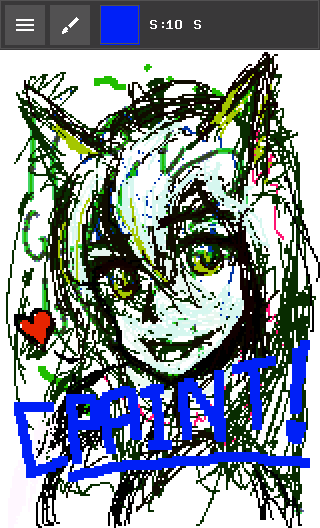
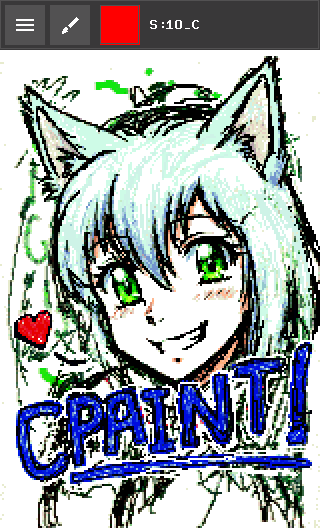
update cpaint, add demo and docs

diff --git a/gint_old.py b/gint_old.py
@@ -1,9 +1,10 @@
+import os
 import time
 import pygame
 from pygame.locals import *
 import sys
 import struct
-from typing import List, Optional, Tuple, Set
+from typing import List, Optional, Tuple
 
 
 # Display dimensions
@@ -55,7 +56,7 @@ vram = pygame.Surface((DWIDTH, DHEIGHT))
 clock = pygame.time.Clock()
 FPS = 100  # Adjust to control game speed
 
-#  NEW: Window Clipping State
+# --- NEW: Window Clipping State ---
 _dwindow = (0, 0, DWIDTH, DHEIGHT)
 
 def _to_rgb(color: int) -> tuple:
@@ -114,6 +115,7 @@ def dupdate():
     else:
         scaled = pygame.transform.scale(vram, (DWIDTH * SCALE, DHEIGHT * SCALE))
         screen.blit(scaled, (0, 0))
+
     pygame.display.flip()
     clock.tick(FPS)
 
@@ -189,7 +191,7 @@ def dpoly(vertices: List[int], fill: int, border: int):
 
 
 
-# ---------------------------------------------------------------------------
+# ------------------------------------------------------------------------------
 
 # Fonts
         
@@ -225,7 +227,7 @@ def dfont(font: GintFont):
     global _current_font
     _current_font = font
 
-# ---------------------------------------------------------------------------
+# ------------------------------------------------------------------------------
 
 # Load bitmap font
 _uf8x9_font = pygame.image.load("_data/font8x9.png").convert()
@@ -605,9 +607,6 @@ _key_mapping = {
     K_RALT: KEY_KBD,
     K_LALT: KEY_KBD
 }
-#  Gint Keyboard State Simulation ---
-_state_queue: Set[int] = set() # User-visible key state, updated by pollevent
-_state_flips: Set[int] = set() # Keys that changed state since last cleareventflips
 
 # State tracking
 _key_states = {}
@@ -624,8 +623,6 @@ class _Event:
 class KeyEvent(_Event):
     def __init__(self, event_type=KEYEV_NONE, key=None, pos=(0, 0)):
         super().__init__(event_type, key)
-
-        mods = pygame.key.get_mods()
 
         self.time = int(time.monotonic() * 1000)
         self.mod = False
@@ -706,7 +703,6 @@ def pollevent():
             # Capture Print Screen key to save VRAM
             if event.key == pygame.K_PRINTSCREEN:  # <-- Add this block
                 pygame.image.save(vram, "screenshot.png")
-                print("screenshot !!")
                 continue  # Skip further processing for this event
                 
             if event.key in _key_mapping:
@@ -725,21 +721,6 @@ def pollevent():
                 return KeyEvent(KEYEV_UP, mapped)
     
     return KeyEvent(KEYEV_NONE, None)
-
-def keypressed(key: int) -> bool:
-    """
-    Checks if a key is currently down AND its state has changed
-    since the last call to cleareventflips().
-    """
-    return (key in _state_queue) and (key in _state_flips)
-
-def keyreleased(key: int) -> bool:
-    """
-    Checks if a key is currently up AND its state has changed
-    since the last call to cleareventflips().
-    """
-    return (key not in _state_queue) and (key in _state_flips)
-
 
 def getkey() -> KeyEvent:
     return getkey_opt(GETKEY_DEFAULT, None)
@@ -775,9 +756,6 @@ def getkey_opt(options: int, timeout_ms: Optional[int] = 2000) -> KeyEvent:
 def keydown(key: int) -> bool:
     """Check if a specific key is currently pressed"""
     pressed = pygame.key.get_pressed()
-    if pygame.K_PRINTSCREEN in pressed:
-        pygame.image.save(vram, "screenshot.png")
-        print("screenshot !!")
     return any(pressed[pg_key] for pg_key in _inverse_key_mapping.get(key, []))
 
 def keydown_all(*keys: int) -> bool:
@@ -803,7 +781,7 @@ def cleareventflips():
     _key_states = {}
     _modifiers = {'shift': False, 'alpha': False}
 
-# -----------------------------------------------------------
+# --------------------------------------------------------------
 # Image stuff
 IMAGE_MONO = 0
 IMAGE_RGB565 = 1

diff --git a/cpaint_demo.py b/cpaint_demo.py
@@ -27,6 +27,8 @@ BUF_W = 160
 BUF_H = (528 - HEADER_H) // 2 # ~239
 BUF_HEADER_OFFSET = HEADER_H
 
+MAX_JUMP = 70
+
 # =============================================================================
 # IMAGE & BUFFER MANAGEMENT
 # =============================================================================
@@ -605,7 +607,7 @@ class PaintApp:
                         seg_len = math.sqrt(dx*dx + dy*dy)
                         
                         # Sanity check for huge jumps
-                        if seg_len > 100: 
+                        if seg_len > MAX_JUMP: 
                             last_x, last_y = e.x, e.y
                             continue
 

diff --git a/CPaint.md b/CPaint.md
@@ -1,0 +1,20 @@
+# CPaint
+
+Painting tool for the classpad !
+
+![alt text](cpaint_1.png)
+
+Simple, clean interface
+
+![alt text](cpaint_2.png)
+
+Various brush settings !
+
+![alt text](cpaint_3.png)
+
+Rich and complete color picker !
+
+![alt text](cpaint_4.png)
+
+Load and export as bitmap (BMP)
+(It takes about 30s, be patient !)
